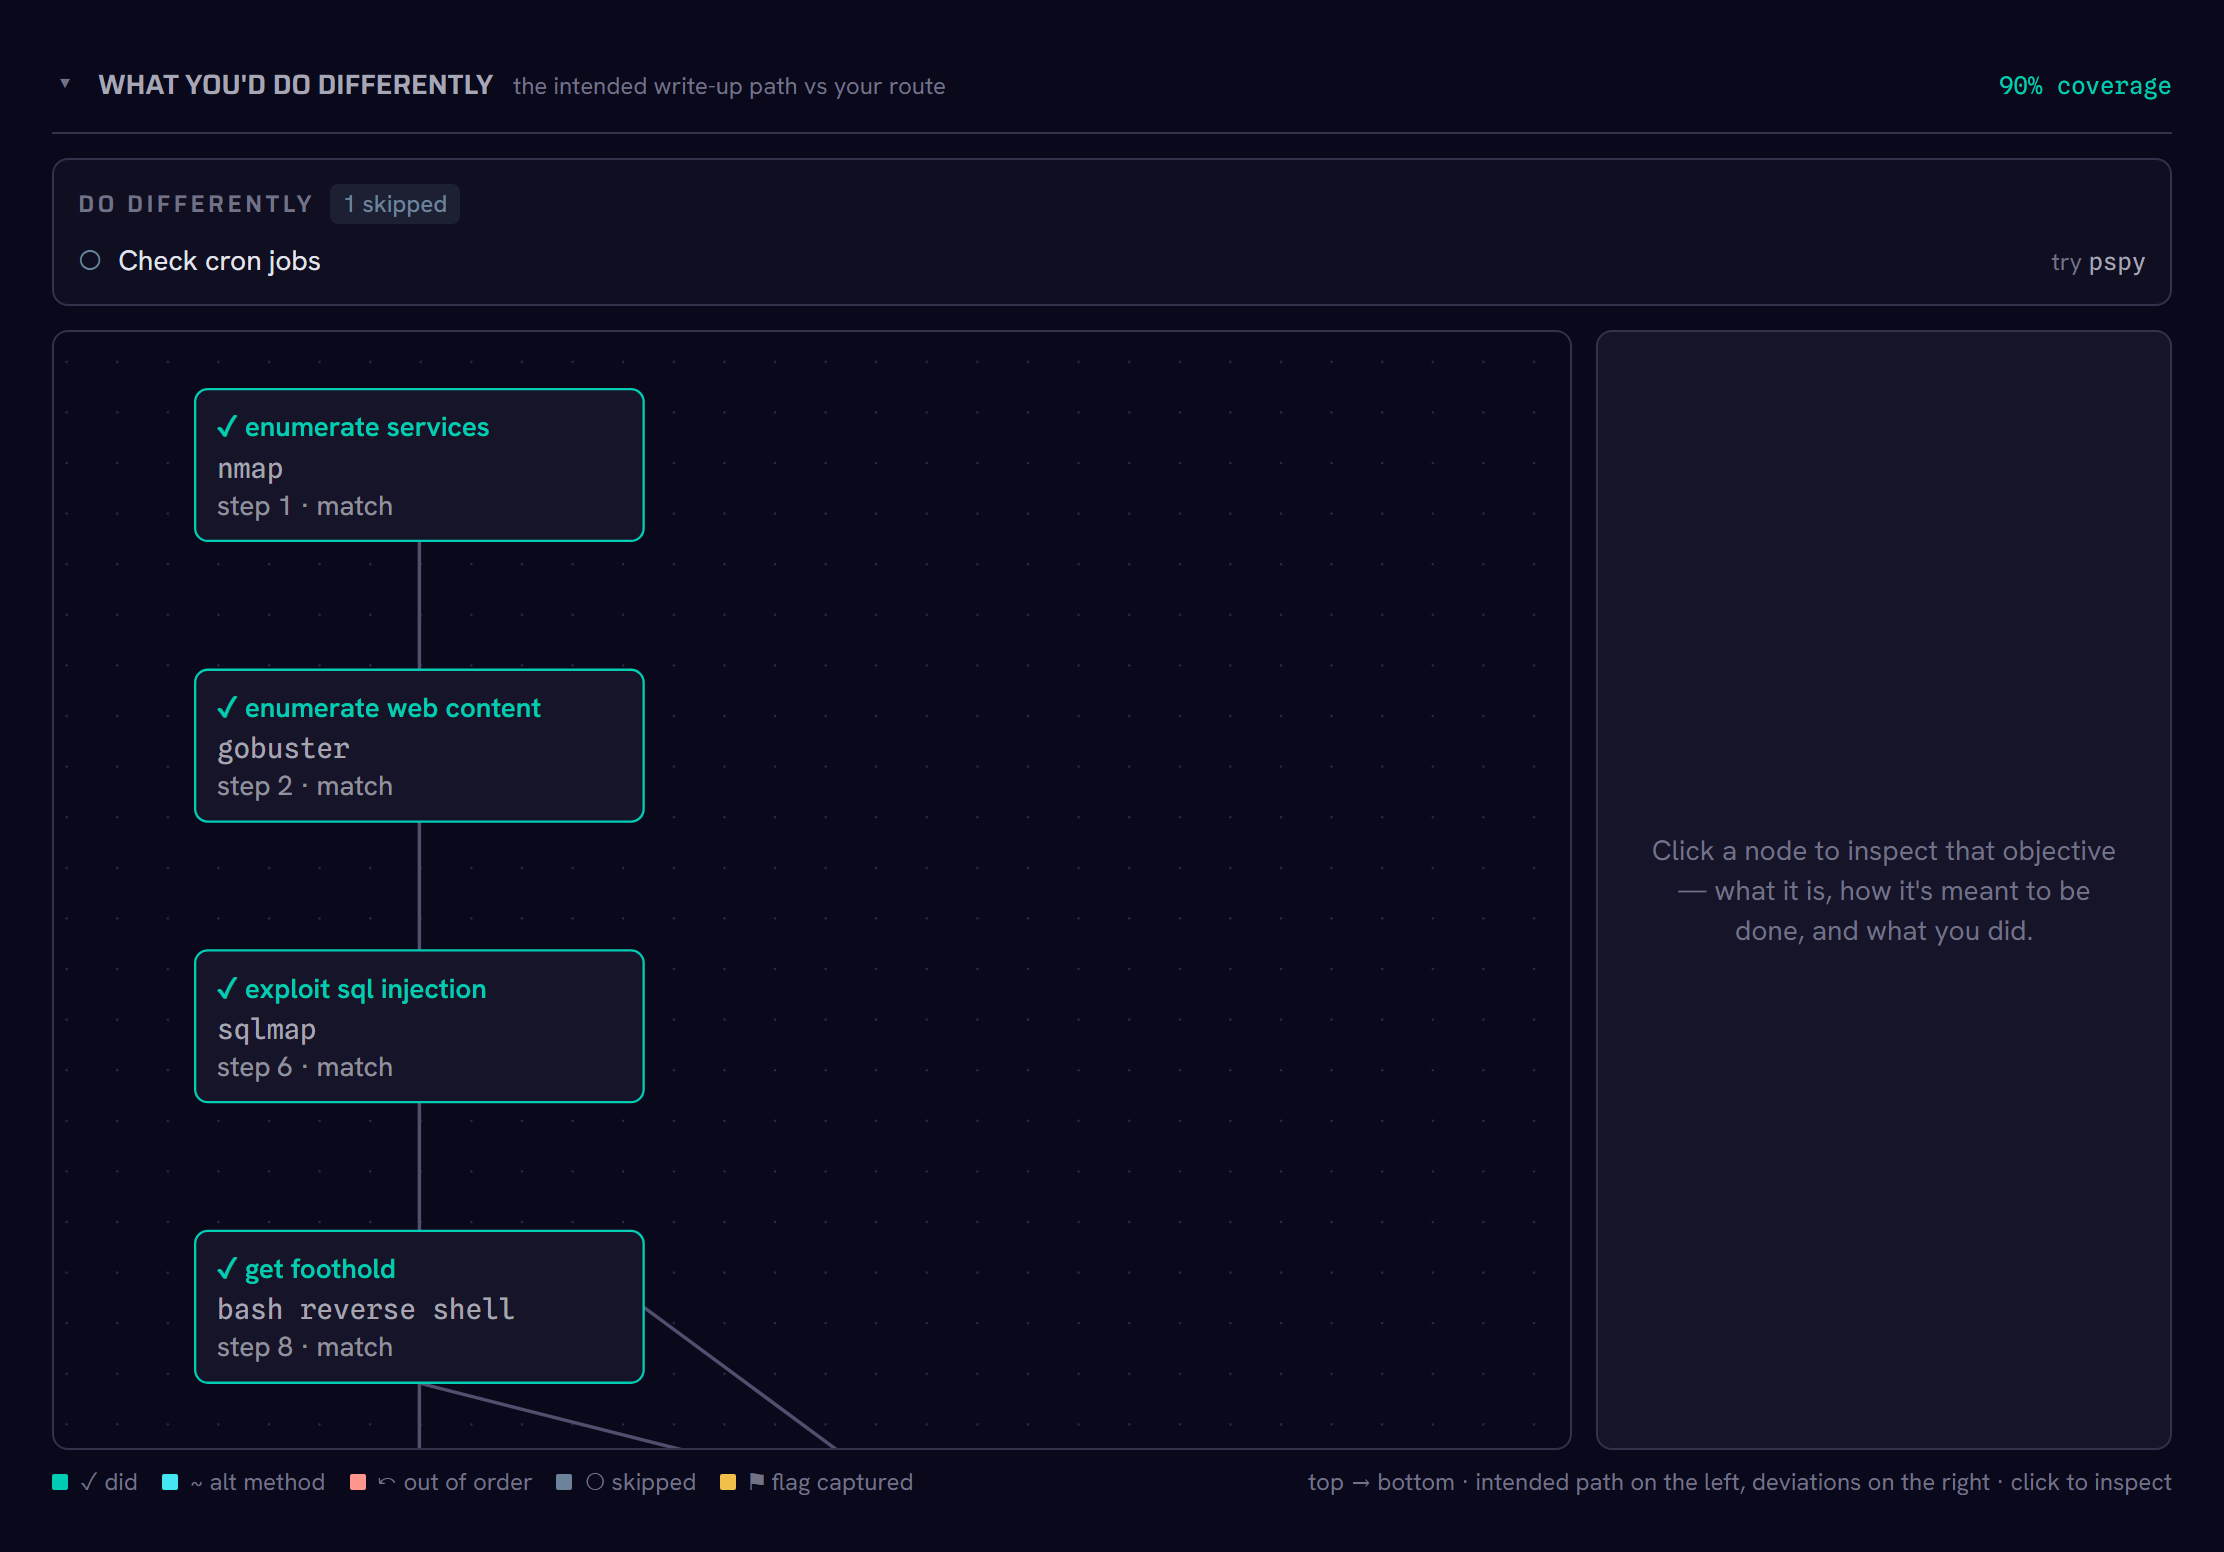
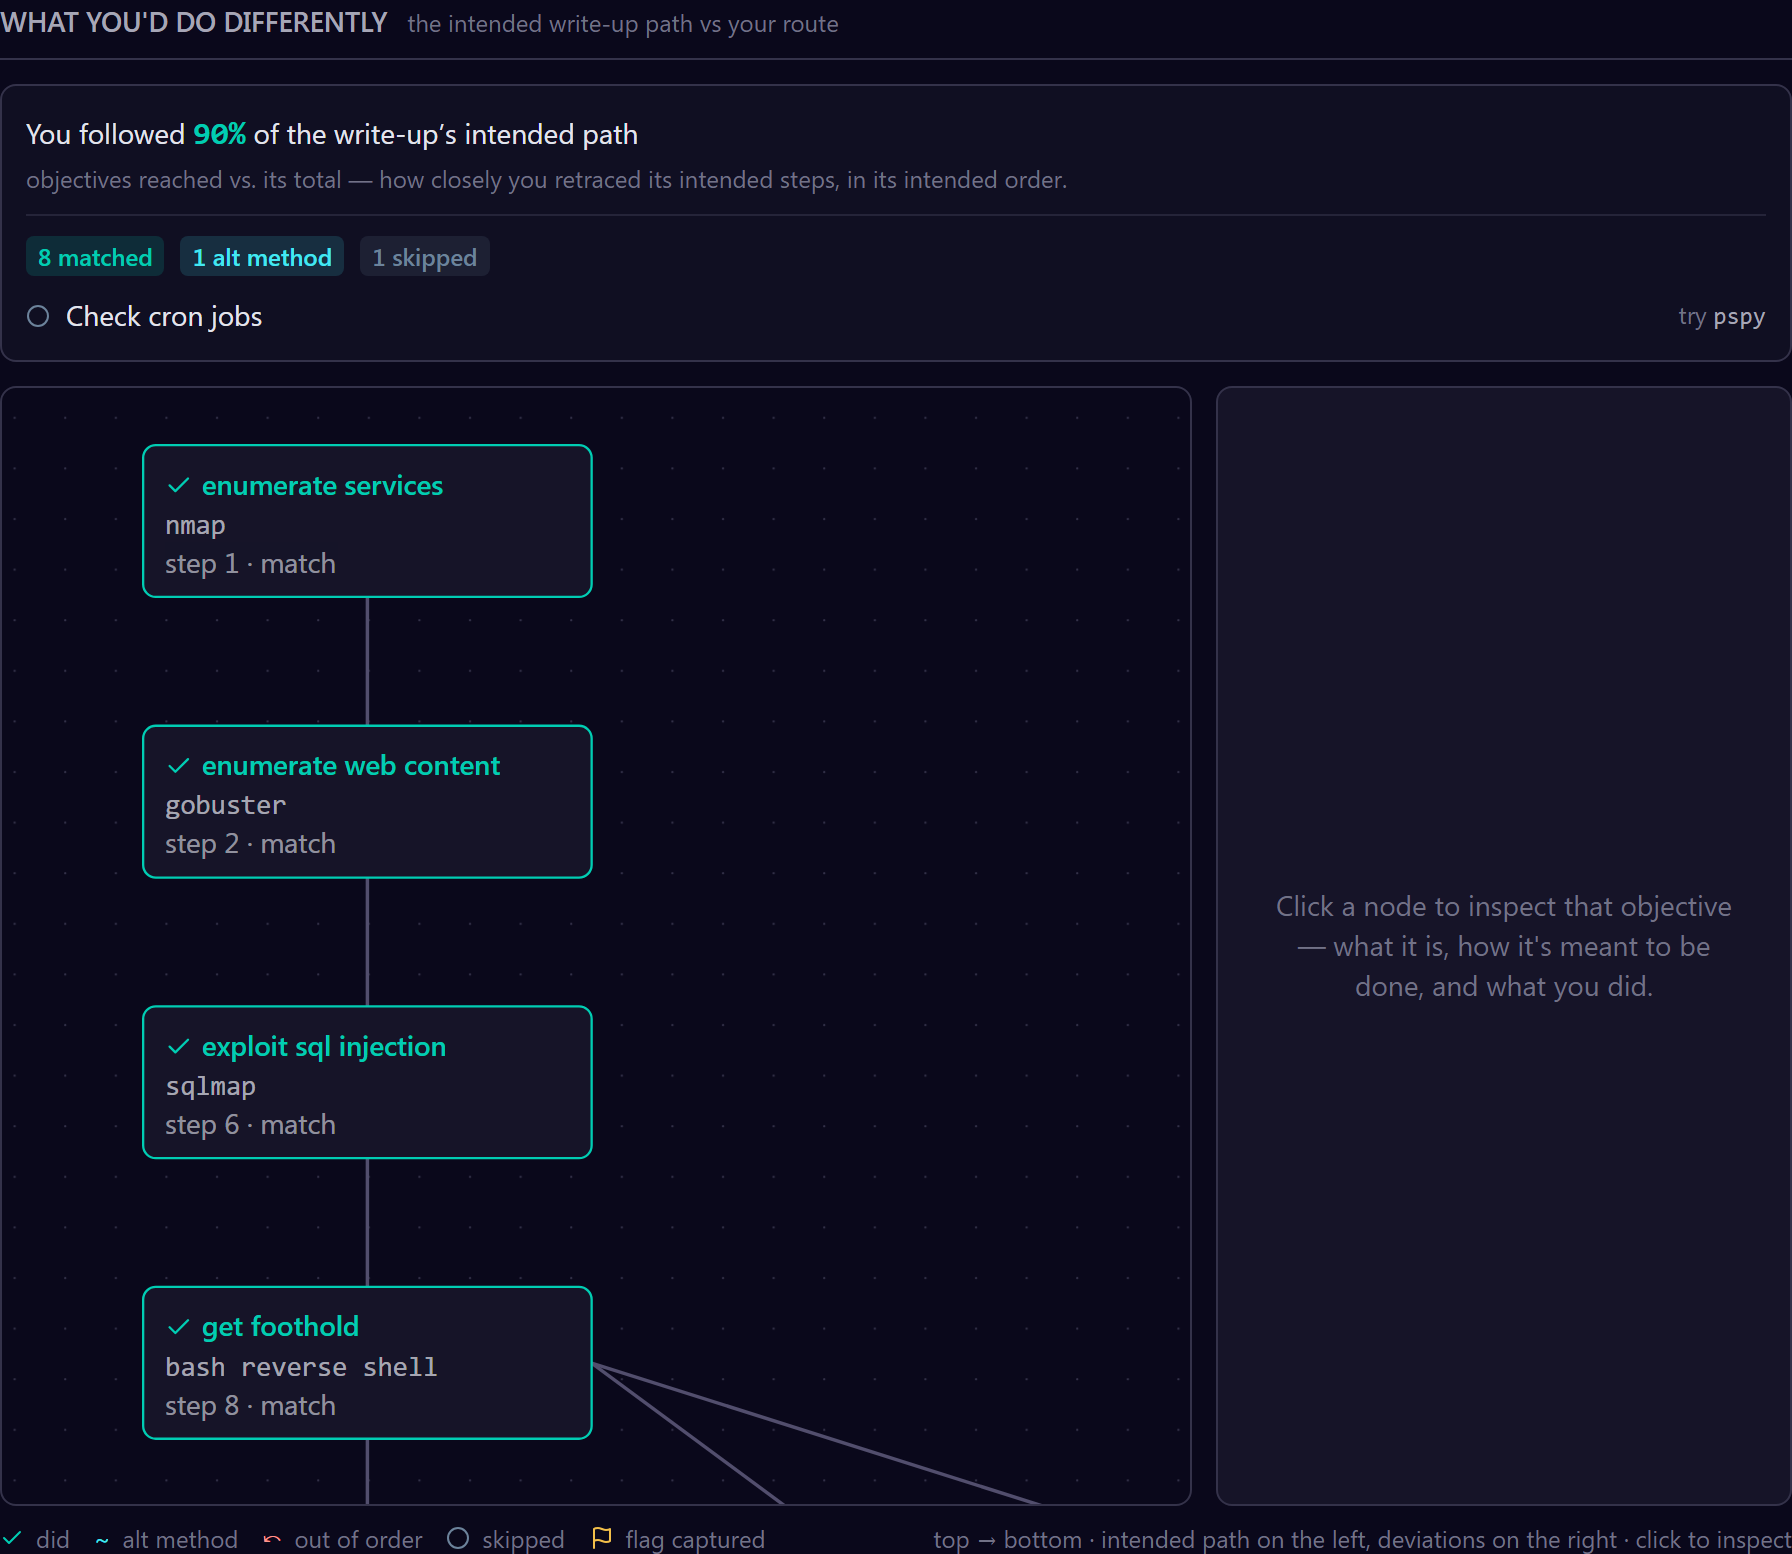
docs: regenerate screenshots against the redesigned debrief
Recapture docs/screenshots/*.png from the lesson-first debrief via the
Playwright tooling, add the Ghost card image, drop the stale
"screenshots predate the redesign" note and the orphaned run-summary.png.

diff --git a/README.md b/README.md
@@ -54,11 +54,6 @@ When the run ends, the live panel settles into a **single-column, lesson-first r
 order is the hierarchy: the verdict, then the one thing to fix, then the detail — arranged so "what do
 I do differently next time" is answered before you scroll.
 
-> **Note — the screenshots below predate the current redesign.** Each *view* is still accurate on its
-> own, but the debrief now arranges them lesson-first (as described here) rather than the older stacked
-> layout the images show. Fresh full-page captures of the redesigned debrief are pending a browser
-> capture pass.
-
 ### Verdict band — box, platform, grade
 
 ![Identity and headline scores](docs/screenshots/identity.png)
@@ -91,6 +86,8 @@ ring, the objectives reached, its ATT&CK techniques, and the highest-impact next
 estimated time saved.
 
 ### The Ghost — you vs. the optimal-from-your-state line
+
+![The Ghost — you vs. the optimal-from-your-state line](docs/screenshots/ghost.png)
 
 Where a run has an intended path, **The Ghost** derives what the optimal line would have looked like
 from *your* findings at each moment — not a live agent replaying the box, a deterministic diff between

diff --git a/scripts/SCREENSHOTS.md b/scripts/SCREENSHOTS.md
@@ -1,8 +1,8 @@
 # Regenerating docs/screenshots/*.png
 
-The images in `docs/screenshots/` predate the lesson-first debrief redesign (see the note in
-`README.md`). This is the tooling to recapture them against the current UI — a rich demo report,
-driven through a real Chromium via Playwright.
+This is the tooling that captures `docs/screenshots/*.png` against the current lesson-first debrief —
+a rich demo report, driven through a real Chromium via Playwright. Re-run it whenever the UI changes
+so the README images stay current.
 
 ## One-time setup
 
